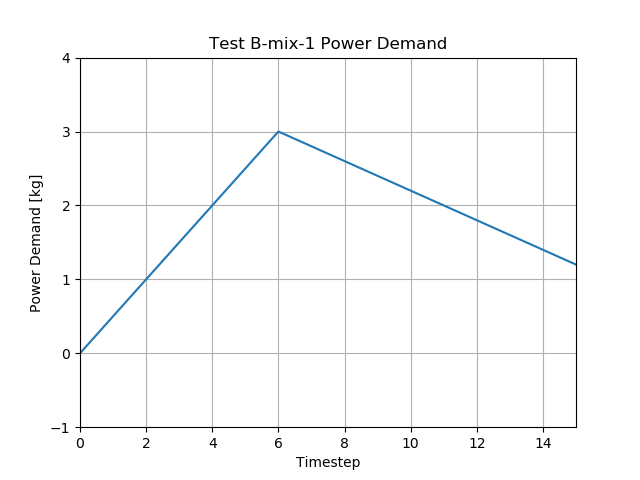
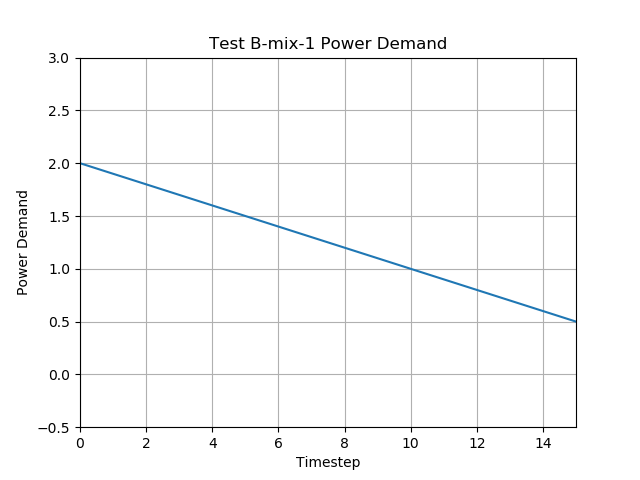
better images

diff --git a/generate_plots.py b/generate_plots.py
@@ -117,7 +117,7 @@ y = np.zeros(16)
 y = y + 1
 plt.plot(x,y)
 plt.xlabel('Timestep')
-plt.ylabel('Power Demand [kg]')
+plt.ylabel('Power demand [GWe]')
 plt.title('Test %s Power Demand' %test_name)
 plt.axis([0, 15, min(y) - 1, max(y) + 1])
 fn = os.path.join(os.path.dirname(__file__),
@@ -132,22 +132,7 @@ x = np.arange(0, 16, step=1)
 y = 0.1 * x
 plt.plot(x,y)
 plt.xlabel('Timestep')
-plt.ylabel('Power Demand [kg]')
-plt.title('Test %s Power Demand' %test_name)
-plt.axis([0, 15, min(y) - 1, max(y) + 1])
-fn = os.path.join(os.path.dirname(__file__),
-                  './docs/do/images/%s' %test_name )
-plt.grid()
-plt.savefig(fn)
-plt.close()
-
-
-test_name = 'B-dep-3'
-x = np.arange(0, 16, step=1)
-y = 2- 0.1 * x
-plt.plot(x,y)
-plt.xlabel('Timestep')
-plt.ylabel('Power Demand [kg]')
+plt.ylabel('Power demand [GWe]')
 plt.title('Test %s Power Demand' %test_name)
 plt.axis([0, 15, min(y) - 1, max(y) + 1])
 fn = os.path.join(os.path.dirname(__file__),
@@ -159,11 +144,26 @@ plt.close()
 
 test_name = 'B-mix-1'
 x = np.arange(0, 16, step=1)
+y = 2- 0.1 * x
+plt.plot(x,y)
+plt.xlabel('Timestep')
+plt.ylabel('Power Demand')
+plt.title('Test %s Power Demand' %test_name)
+plt.axis([0, 15, min(y) - 1, max(y) + 1])
+fn = os.path.join(os.path.dirname(__file__),
+                  './docs/do/images/%s' %test_name )
+plt.grid()
+plt.savefig(fn)
+plt.close()
+
+
+test_name = 'B-mix-2'
+x = np.arange(0, 16, step=1)
 y = 0.5 * x
 y[7:] = 3 - 0.2 * (x[7:]-6)
 plt.plot(x,y)
 plt.xlabel('Timestep')
-plt.ylabel('Power Demand [kg]')
+plt.ylabel('Power demand [GWe]')
 plt.title('Test %s Power Demand' %test_name)
 plt.axis([0, 15, min(y) - 1, max(y) + 1])
 fn = os.path.join(os.path.dirname(__file__),
